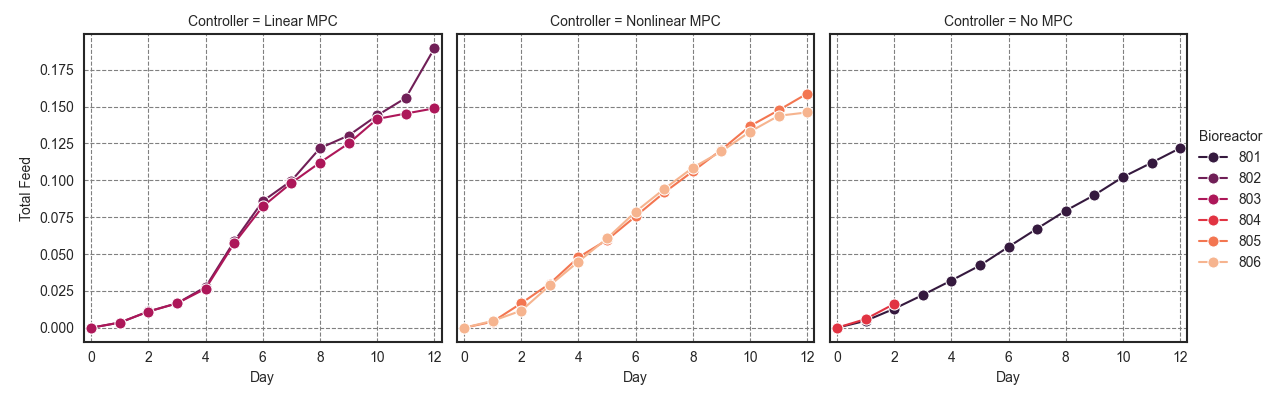
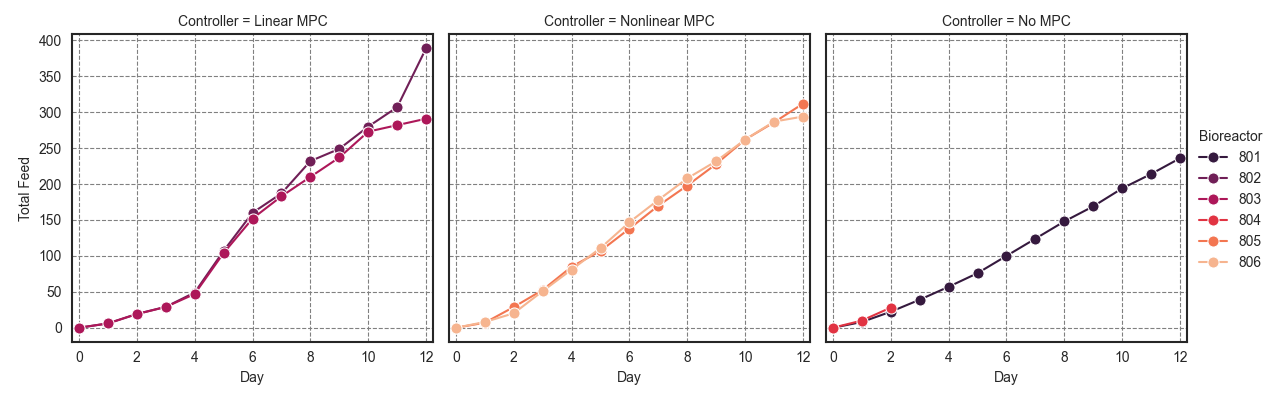
mpc_graphs_3L.py: added total/daily glucose, changed feed/glucose to mL, added glucose and lactate

diff --git a/src/mpc_graphs_3L.py b/src/mpc_graphs_3L.py
@@ -55,10 +55,12 @@ DISP_VARS = [
     "Cedex Titer",
     "Total Feed",
     "Daily Feed",
-    # "Total Glucose",
-    # "Daily Glucose",
+    "Total Glucose",
+    "Daily Glucose",
     "Viability",
     "VCC",
+    "Lactate",
+    "Glucose"
 ]  # ,"HPLC Titer","Lactate","Glucose","pCO2"]
 PALETTE = sns.color_palette("rocket", 6)
 
@@ -74,8 +76,8 @@ df_data = (
     pd.read_excel(data_path, skiprows=[0])
     .rename(
         columns={
-            "Cumulative_Normalized_Feed_Current WV": "Total Feed",
-            # "Cumulative_Glucose": "Total Glucose",
+            "Cumulative Feed Amount (mL)": "Total Feed",
+            "Cumulative Glucose Amount (mL)": "Total Glucose",
             "pCO2 at Temp": "pCO2",
             "IGG": "Cedex Titer",
             "Vessel Temp (*C)":"Temp",
@@ -94,10 +96,10 @@ total_feed_diff = np.append(np.diff(df_data["Total Feed"]), 0)
 daily_feed = np.zeros((len(total_feed_diff),))
 daily_feed[total_feed_diff > 0] = total_feed_diff[total_feed_diff > 0]
 df_data["Daily Feed"] = daily_feed
-# total_glc_diff = np.append(np.diff(df_data["Total Glucose"]), 0)
-# daily_glc = np.zeros((len(total_glc_diff),))
-# daily_glc[total_glc_diff > 0] = total_glc_diff[total_glc_diff > 0]
-# df_data["Daily Glucose"] = daily_glc
+total_glc_diff = np.append(np.diff(df_data["Total Glucose"]), 0)
+daily_glc = np.zeros((len(total_glc_diff),))
+daily_glc[total_glc_diff > 0] = total_glc_diff[total_glc_diff > 0]
+df_data["Daily Glucose"] = daily_glc
 df_data_selected = df_data.loc[
     df_data["Controller"].str.contains(CONFIG[MPC_GRP]["controller"]),
     [
@@ -118,9 +120,9 @@ df_data_selected = df_data.loc[
         "pCO2",
         # "Temp/pH",
         "Total Feed",
-        # "Total Glucose",
+        "Total Glucose",
         "Daily Feed",
-        # "Daily Glucose",
+        "Daily Glucose",
     ],
 ]
 
